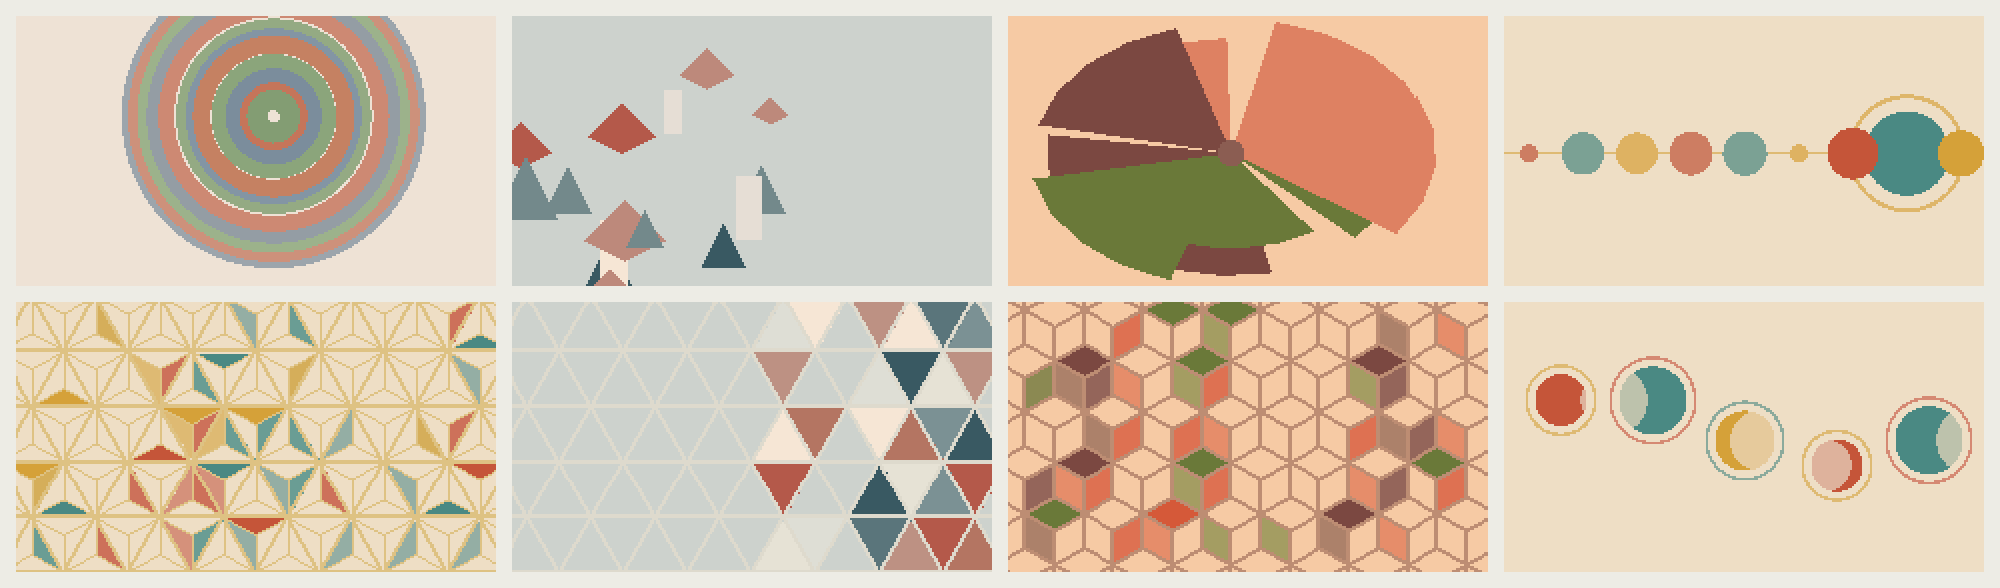
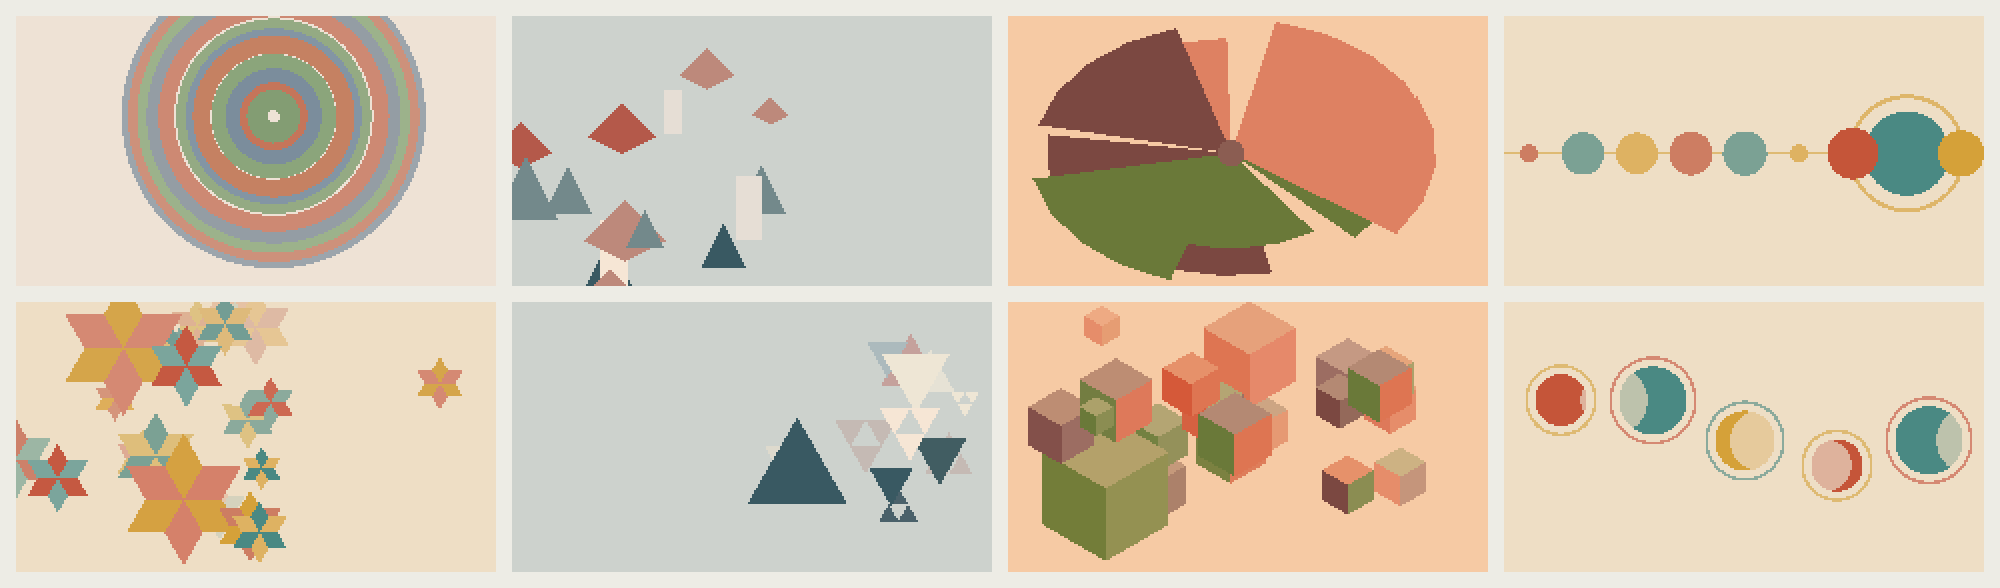
Drop the kumiko lattice: motifs that grow in, drift and fade
The fixed lattice read as a board being filled in, still and cold beside
Ring and Bloom. Each strike now sets down one motif of its pattern at a
size of its own: an asanoha star at true proportions, an uroko scale, or
a kikko cube lit from above. Motifs drift on a slow wind and fade back
into the paper, so the page follows the music and empties when it stops.

Changed region(s): [[0.372, 0.4898, 0.744, 0.9796], [0.0, 0.4898, 0.248, 0.9796]]

diff --git a/src/Resonance.h b/src/Resonance.h
@@ -52,11 +52,11 @@ class Painting {
 
   std::array<Mark, 40> marks{};
   unsigned markCount = 0, nextMark = 0;
-  // Kumiko: how far each piece of the lattice has grown in, and its colour.
-  // The geometry is worked out when it is needed, not stored.
-  std::array<float, 360> pieces{};
-  std::array<uint8_t, 360> pieceTints{};
-  unsigned piecesFilled = 0, piecesShown = 0;
+  // Kumiko: one motif of the pattern per strike, growing in, drifting and
+  // fading back into the paper.
+  struct Motif { float x, y, size, age, life, vx, vy; unsigned tint, form; };
+  std::array<Motif, 28> motifs{};
+  unsigned motifCount = 0, nextMotif = 0;
   int heardLow = 60, heardHigh = 72;
   // Ripple: each disc's swell, the knock waiting for it, and how much of the
   // playing it still remembers.
@@ -69,7 +69,7 @@ class Painting {
   unsigned petalCount = 0;
   std::array<float, 12> rings{};
   unsigned ringCount = 0, nextRing = 0;
-  float clearAt = 0, bloomTurn = 0, petalShape = 0;
+  float bloomTurn = 0, petalShape = 0;
   int registerLow = 48, registerHigh = 84;
 
   unsigned random() { rng ^= rng << 13; rng ^= rng >> 17; rng ^= rng << 5; return rng; }
@@ -286,149 +286,98 @@ class Painting {
     }
   }
 
-  // A kumiko panel: a lattice of strips over paper, cut into pieces, and
-  // each strike fills one piece at the column its pitch sets, growing out
-  // from its centre. The lattice is there from the start; what the music
-  // adds is the colour, until the panel is nearly full and a new one is
-  // started. Three traditional lattices: asanoha, the hemp leaf, whose
-  // triangles are cut in three from the centre; uroko, the scales, whose
-  // triangles are whole; and kikko, the tortoise shell, whose hexagons are cut
-  // into three diamonds and so fill in as stars and stacked cubes.
+  // Kumiko motifs without the lattice. Each strike sets down one piece of
+  // the pattern at a size of its own, at the column its pitch sets: a
+  // hemp-leaf star for asanoha, a scale for uroko, a cube for kikko. It grows
+  // in with a little overshoot, drifts on a slow shared wind, and fades back
+  // into the paper over several seconds, so the page is as busy as the music
+  // and empties when it stops. A fixed lattice was tried first and read as a
+  // board being filled in rather than something being played.
   //
   // Pitch is spread over the notes actually heard rather than the whole
-  // register: a melody that keeps to a few notes would otherwise fill one
-  // side of the panel and leave the other bare.
+  // register: a melody that keeps to a few notes would otherwise put every
+  // motif on one side of the page.
   float spread(uint8_t note) {
     heardLow = std::min(heardLow, int(note));
     heardHigh = std::max(heardHigh, int(note));
     float t = (float(note) - float(heardLow)) / float(std::max(5, heardHigh - heardLow));
     return std::max(0.0f, std::min(1.0f, t));
   }
-  // The corners of one triangle of the asanoha and uroko grid, pointing up
-  // or down.
-  static void gridTriangle(unsigned row, unsigned t, float* xs, float* ys) {
-    const float side = 32, rise = 27.7f;
-    float x = float(t / 2) * side - (row % 2 ? side * 0.5f : 0) - 8, y = float(row) * rise - 3;
-    if (t % 2 == 0) {
-      xs[0] = x; ys[0] = y + rise; xs[1] = x + side; ys[1] = y + rise; xs[2] = x + side * 0.5f; ys[2] = y;
-    } else {
-      xs[0] = x + side * 0.5f; ys[0] = y; xs[1] = x + side * 1.5f; ys[1] = y; xs[2] = x + side; ys[2] = y + rise;
-    }
-  }
-  static constexpr unsigned gridRows = 6, gridTriangles = 20, shellRows = 7, shellColumns = 10;
-  // The centre and corners of one hexagon of the kikko lattice, point up.
-  void shell(unsigned row, unsigned column, float& cx, float& cy, float* xs, float* ys) const {
-    const float r = 17, across = r * 1.732f;
-    cx = float(column) * across + (row % 2 ? across * 0.5f : 0) - 6;
-    cy = float(row) * r * 1.5f - 4;
-    for (unsigned k = 0; k < 6; ++k) {
-      xs[k] = cx + fcos(float(k) / 6 + 1.0f / 12) * r;
-      ys[k] = cy + fsin(float(k) / 6 + 1.0f / 12) * r;
-    }
-  }
-  unsigned pieceCount() const {
-    return character == Asanoha ? gridRows * gridTriangles * 3
-         : character == Uroko ? gridRows * gridTriangles : shellRows * shellColumns * 3;
-  }
-  // One piece: the point it grows from, and the corners it is fanned to
-  // from there, in order.
-  unsigned piece(unsigned i, float& ox, float& oy, float* xs, float* ys) const {
-    float vx[6], vy[6];
-    if (character == Kikko) {
-      shell(i / 3 / shellColumns, i / 3 % shellColumns, ox, oy, vx, vy);
-      unsigned k = i % 3 * 2;
-      for (unsigned j = 0; j < 3; ++j) { xs[j] = vx[(k + j) % 6]; ys[j] = vy[(k + j) % 6]; }
-      return 3;
-    }
-    unsigned cell = character == Asanoha ? i / 3 : i;
-    gridTriangle(cell / gridTriangles, cell % gridTriangles, vx, vy);
-    ox = (vx[0] + vx[1] + vx[2]) / 3; oy = (vy[0] + vy[1] + vy[2]) / 3;
-    if (character == Asanoha) {
-      unsigned k = i % 3;
-      xs[0] = vx[k]; ys[0] = vy[k]; xs[1] = vx[(k + 1) % 3]; ys[1] = vy[(k + 1) % 3];
-      return 2;
-    }
-    for (unsigned j = 0; j < 4; ++j) { xs[j] = vx[j % 3]; ys[j] = vy[j % 3]; }
-    return 4;
-  }
-  // Where a piece sits, for placing it by pitch and for leaving out the ones
-  // the frame cuts off.
-  bool pieceCentre(unsigned i, float& x, float& y) const {
-    float ox, oy, xs[4], ys[4];
-    unsigned n = piece(i, ox, oy, xs, ys);
-    x = ox; y = oy;
-    for (unsigned j = 0; j < n; ++j) { x += xs[j]; y += ys[j]; }
-    x /= float(n + 1); y /= float(n + 1);
-    return x > 4 && y > 4 && x < float(width) - 4 && y < float(height) - 4;
-  }
-  // A strip two pixels wide, thickened across its own direction so the
-  // horizontals and the diagonals read as the same wood.
-  void strip(float x0, float y0, float x1, float y1, uint16_t c) {
-    line(x0, y0, x1, y1, c);
-    if (std::abs(x1 - x0) > std::abs(y1 - y0)) line(x0, y0 - 1, x1, y1 - 1, c);
-    else line(x0 - 1, y0, x1 - 1, y1, c);
+  void quad(float ax, float ay, float bx, float by, float cx, float cy, float dx, float dy, uint16_t c) {
+    triangle(ax, ay, bx, by, cx, cy, c);
+    triangle(ax, ay, cx, cy, dx, dy, c);
   }
   void renderKumiko(float dt, uint8_t note, float weight) {
-    const unsigned total = pieceCount();
-    if (note && clearAt > 2.0f) {
-      float at = 10 + spread(note) * 220;
-      // Try nearest the pitch first, then a little wider, so a column that
-      // is already full passes the note to its neighbour.
-      for (float reach : {16.0f, 34.0f}) {
-        unsigned options[360], n = 0;
-        for (unsigned i = 0; i < total; ++i) {
-          float x, y;
-          if (pieces[i] <= 0 && pieceCentre(i, x, y) && std::abs(x - at) < reach) options[n++] = i;
-        }
-        if (!n) continue;
-        unsigned i = options[random() % n];
-        pieces[i] = 0.01f;
-        pieceTints[i] = uint8_t((unsigned(at / 40) + unsigned(weight * 2.0f) + random() % 2) % 3);
-        if (++piecesFilled >= piecesShown * 5 / 12) clearAt = 2.0f;
-        break;
-      }
-    }
-    if (clearAt <= 2.0f) {
-      clearAt -= dt;
-      if (clearAt <= 0) { pieces.fill(0); piecesFilled = 0; clearAt = 99; }
+    if (note) {
+      Motif& m = motifs[nextMotif];
+      nextMotif = (nextMotif + 1) % motifs.size();
+      if (motifCount < motifs.size()) ++motifCount;
+      m.x = 20 + spread(note) * 200 + range(-10.0f, 10.0f);
+      m.y = 18 + unit() * 99;
+      // Mostly middling, now and then one much larger, so the page has a
+      // few anchors among the smaller ones.
+      m.size = range(9.0f, 20.0f) * (0.75f + weight * 0.5f) * (unit() < 0.18f ? 1.8f : 1.0f);
+      if (character == Uroko) m.size *= 1.6f;
+      m.age = 0;
+      m.life = range(6.0f, 10.0f);
+      m.vx = range(-2.0f, 2.0f);
+      m.vy = range(-3.0f, -0.5f);
+      m.tint = random() % 3;
+      m.form = random() % 4;
     }
     clear();
-    static const float tints[3] = {0.0f, 0.22f, 0.45f};
-    for (unsigned i = 0; i < total; ++i) {
-      float& grown = pieces[i];
-      if (grown <= 0) continue;
-      grown = std::min(1.0f, grown + dt * 5.0f);
-      float ox, oy, xs[4], ys[4];
-      unsigned n = piece(i, ox, oy, xs, ys);
-      uint16_t c = wash(ink[pieceTints[i]], tints[i % 3]);
-      for (unsigned j = 0; j + 1 < n; ++j)
-        triangle(ox, oy, ox + (xs[j] - ox) * grown, oy + (ys[j] - oy) * grown,
-                 ox + (xs[j + 1] - ox) * grown, oy + (ys[j + 1] - oy) * grown, c);
-    }
-    // The strips go over the pieces, the way the wood holds the paper.
-    uint16_t wood = wash(ink[2], 0.55f);
-    float xs[6], ys[6];
-    if (character == Kikko) {
-      for (unsigned row = 0; row < shellRows; ++row)
-        for (unsigned column = 0; column < shellColumns; ++column) {
-          float cx, cy;
-          shell(row, column, cx, cy, xs, ys);
-          for (unsigned k = 0; k < 6; ++k) {
-            strip(xs[k], ys[k], xs[(k + 1) % 6], ys[(k + 1) % 6], wood);
-            if (k % 2 == 0) strip(cx, cy, xs[k], ys[k], wood);
-          }
+    float wind = (evolving[2] - 0.5f) * 6;
+    // Oldest first, so the newest strike is always on top.
+    for (unsigned k = 0; k < motifCount; ++k) {
+      Motif& m = motifs[(nextMotif + motifs.size() - motifCount + k) % motifs.size()];
+      m.age += dt;
+      if (m.age >= m.life) continue;
+      m.x += (m.vx + wind) * dt;
+      m.y += m.vy * dt;
+      // Grow in over a quarter second, overshooting a little and settling.
+      float g = std::min(1.0f, m.age * 4.0f) - 1;
+      float s = m.size * (1 + 2.7f * g * g * g + 1.7f * g * g);
+      // Hold for a second, then let down toward the ground, slowly at first.
+      float fade = std::max(0.0f, (m.age - 1.0f) / (m.life - 1.0f));
+      fade = fade * fade * 0.9f;
+      auto shade = [&](unsigned tint, float light) {
+        return wash(ink[tint % 3], std::min(0.95f, fade + light * (1 - fade)));
+      };
+      if (character == Asanoha) {
+        // Six kites, point outward, their side corners where the centres of
+        // the lattice's triangles would be, so neighbours meet edge to edge.
+        for (unsigned p = 0; p < 6; ++p) {
+          float a = float(p) / 6 + 0.25f, side = s * 0.577f;
+          quad(m.x, m.y,
+               m.x + fcos(a - 1.0f / 12) * side, m.y - fsin(a - 1.0f / 12) * side,
+               m.x + fcos(a) * s, m.y - fsin(a) * s,
+               m.x + fcos(a + 1.0f / 12) * side, m.y - fsin(a + 1.0f / 12) * side,
+               shade(m.tint + p % 2, p % 2 ? 0.3f : 0.0f));
         }
-      return;
-    }
-    for (unsigned row = 0; row < gridRows; ++row)
-      for (unsigned t = 0; t < gridTriangles; ++t) {
-        gridTriangle(row, t, xs, ys);
-        float cx = (xs[0] + xs[1] + xs[2]) / 3, cy = (ys[0] + ys[1] + ys[2]) / 3;
-        for (unsigned k = 0; k < 3; ++k) {
-          strip(xs[k], ys[k], xs[(k + 1) % 3], ys[(k + 1) % 3], wood);
-          if (character == Asanoha) line(cx, cy, xs[k], ys[k], wood);
+      } else if (character == Uroko) {
+        float up = m.form % 2 ? -1.0f : 1.0f, h = s * 0.866f;
+        float ax = m.x - s * 0.5f, ay = m.y + h * 0.5f * up, bx = m.x + s * 0.5f, by = ay;
+        float cx = m.x, cy = m.y - h * 0.5f * up;
+        triangle(ax, ay, bx, by, cx, cy, shade(m.tint, 0));
+        // Now and then a scale cut in four, the middle left as paper.
+        if (m.form >= 2)
+          triangle((ax + bx) / 2, (ay + by) / 2, (bx + cx) / 2, (by + cy) / 2, (ax + cx) / 2, (ay + cy) / 2, ground);
+      } else {
+        // A cube: three diamonds of a hexagon, the top one lightest. Now and
+        // then each face takes its own ink.
+        float vx[6], vy[6];
+        for (unsigned v = 0; v < 6; ++v) {
+          vx[v] = m.x + fcos(float(v) / 6 + 1.0f / 12) * s;
+          vy[v] = m.y + fsin(float(v) / 6 + 1.0f / 12) * s;
+        }
+        static const float lights[3] = {0.0f, 0.5f, 0.25f};  // left, top, right
+        for (unsigned f = 0; f < 3; ++f) {
+          unsigned v = f * 2 + 1;
+          quad(m.x, m.y, vx[v], vy[v], vx[(v + 1) % 6], vy[(v + 1) % 6], vx[(v + 2) % 6], vy[(v + 2) % 6],
+               shade(m.form == 3 ? m.tint + f : m.tint, lights[f]));
         }
       }
+    }
   }
 
   // A row of moons across the sky, one to each stretch of the register. A
@@ -562,16 +511,13 @@ class Painting {
 
     markCount = 0; nextMark = 0;
     for (auto& m : marks) m = Mark{};
-    pieces.fill(0);
-    piecesFilled = piecesShown = 0;
-    for (unsigned i = 0; i < pieceCount(); ++i) { float x, y; if (pieceCentre(i, x, y)) ++piecesShown; }
+    motifCount = nextMotif = 0;
     heardLow = (registerLow + registerHigh) / 2 - 3;
     heardHigh = heardLow + 6;
     swell.fill(0); knock.fill(0); memory.fill(0);
     for (unsigned i = 0; i < moonCount; ++i) moonPhase[i] = moonGoal[i] = 0.1f + unit() * 0.8f;
     ringCount = 0; nextRing = 0;
     rings.fill(0);
-    clearAt = 99;
     petalCount = 0;
     bloomTurn = unit();
     petalShape = range(0.1f, 0.9f);

diff --git a/README.md b/README.md
@@ -34,9 +34,9 @@ is the combinations it finds.
 - **Snap**: a strike bursts into shards that scatter from the point and fade. Nothing accumulates.
 - **Bloom**: petals opening one to a strike, stepping round by the golden angle, until the rosette is full and another starts.
 - **Ripple**: a row of discs on a horizon, one to each stretch of the register. A strike swells its disc and knocks its neighbours; the row keeps a trace of where the melody has been and goes still when the music does.
-- **Asanoha**: a kumiko panel in the hemp-leaf lattice. Each strike fills one piece of the lattice at the column its pitch sets, until the panel is nearly full and a new one starts.
-- **Uroko**: the same, in the scale pattern, a plain grid of triangles each filled whole.
-- **Kikko**: the same, in the tortoise-shell pattern, hexagons cut into three diamonds that fill in as stars and stacked cubes.
+- **Asanoha**: kumiko's hemp-leaf star, one to a strike, at a column set by pitch and a size of its own. Each grows in, drifts on a slow wind and fades back into the paper, so the page is as busy as the music and empties when it stops.
+- **Uroko**: the same, with the scale pattern's triangles, some cut in four with the middle left as paper.
+- **Kikko**: the same, with the tortoise-shell hexagon drawn as a cube lit from above.
 - **Moons**: a row of moons, one to each stretch of the register. A strike turns its moon a step through its phases.
 
 They are drawn in Rill's language — opaque shapes, hard edges, a coloured
